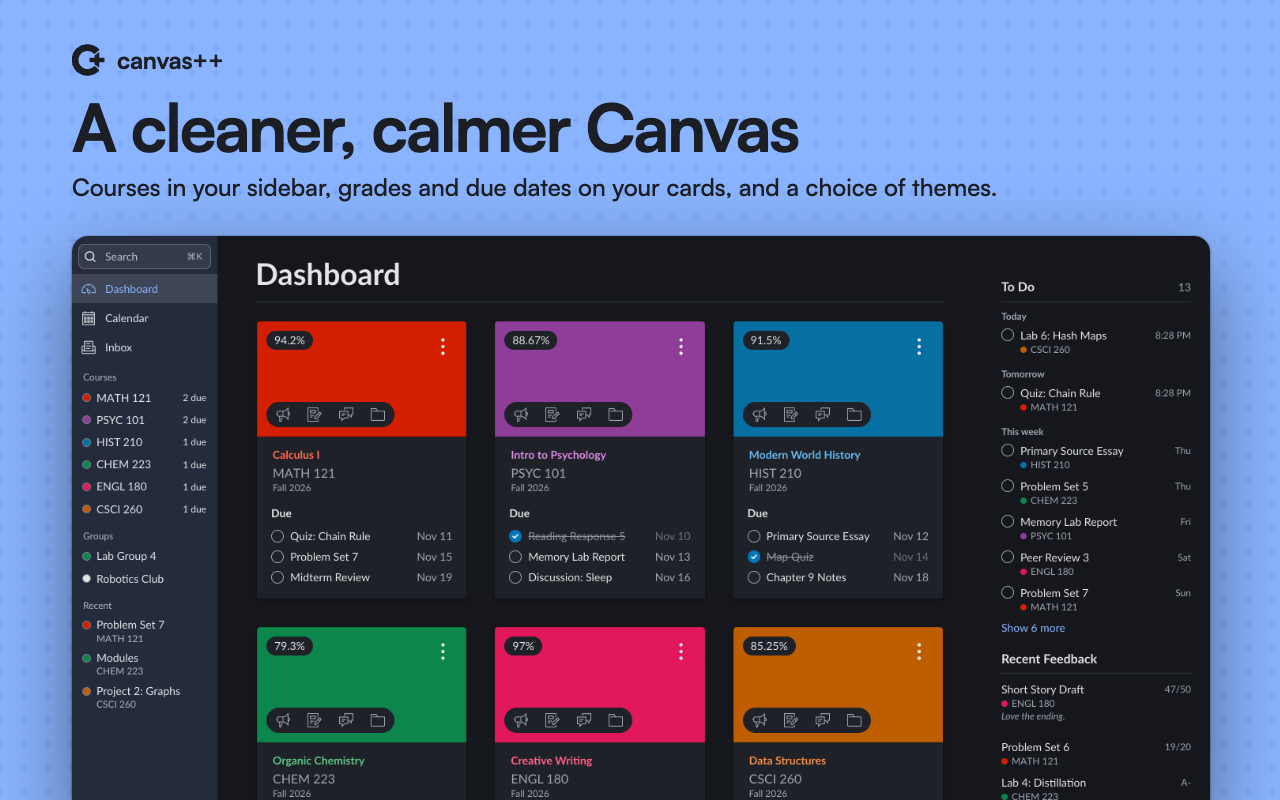
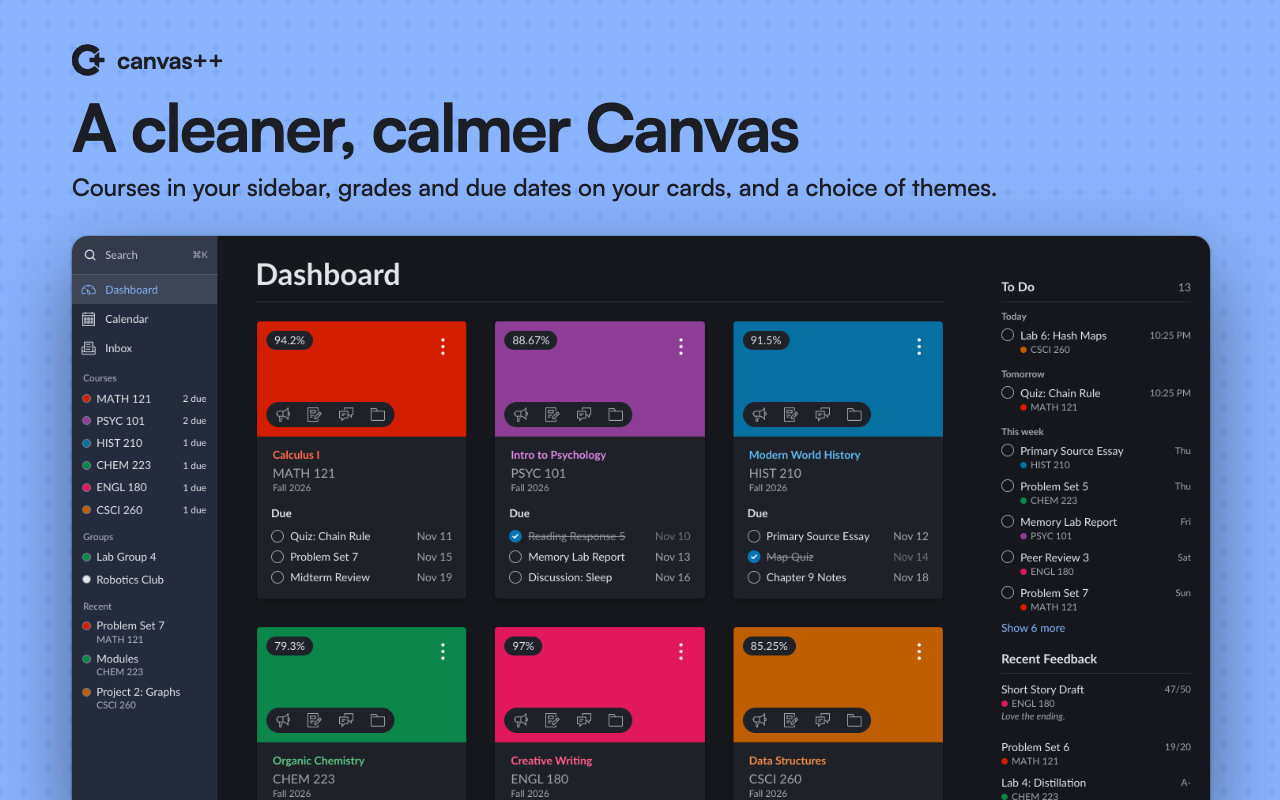
Run the sidebar's search field across its whole width
The field was a rounded box inset in the sidebar. It's now a band across
the top, as tall as the space it had, with a line under it, so it reads
as part of the sidebar rather than a control floating in it.

Changed region(s): [[0.0625, 0.6875, 0.125, 0.875], [0.0625, 0.4688, 0.125, 0.6562], [0.0625, 0.3125, 0.1562, 0.4375]]

diff --git a/src/features/nav/nav.css b/src/features/nav/nav.css
@@ -37,11 +37,11 @@
       }
     }
 
-    /* A field to type in, as it looks, in the nav's colors. */
+    /* A band across the top of the sidebar to type in, as it looks, in the
+       nav's colors, with a line under it. */
     #menu > .cpp-search-entry {
       display: block;
       order: 0;
-      padding: 10px 8px 6px;
     }
 
     .cpp-search-button {
@@ -52,14 +52,15 @@
       width: 100%;
       margin: 0;
       /* its icon in line with the buttons' below */
-      padding: 6px 10px 6px 3px;
-      border: 1px solid
+      padding: 15px 12px;
+      border: 0;
+      border-bottom: 1px solid
         color-mix(
           in srgb,
-          var(--ic-brand-global-nav-menu-item__text-color) 30%,
+          var(--ic-brand-global-nav-menu-item__text-color) 20%,
           transparent
         );
-      border-radius: 8px;
+      border-radius: 0;
       background-color: color-mix(
         in srgb,
         var(--ic-brand-global-nav-menu-item__text-color) 8%,
@@ -82,7 +83,7 @@
 
       &:focus-visible {
         outline: 2px solid var(--ic-brand-global-nav-menu-item__text-color);
-        outline-offset: 1px;
+        outline-offset: -2px;
       }
     }
 
@@ -563,7 +564,7 @@
       /* just its icon */
       .cpp-search-button {
         justify-content: center;
-        padding: 6px 0;
+        padding-inline: 0;
       }
 
       .cpp-search-label,

diff --git a/PLAN.md b/PLAN.md
@@ -132,7 +132,7 @@ Off by default (popup switch in Sidebars & search, labeled with the platform's s
 - **Recent** (`features/search/recent.ts`, unit-tested): before anything is typed, the last five pages opened that the box lists come first, under "Recent", with the courses and work due under "Courses and work due" (the titles only show when there's something recent). Every Canvas page is noted as it loads, by its path (and the module item it was opened as, from `module_item_id`, since Canvas sends `/courses/:id/modules/items/:id` on to the item's own page), the last 50 in the page's `localStorage` per user (`canvas++:search-visits`, `core/saved.ts`). They're matched to the listed entries by href when the box opens, so pages it doesn't list (a submission, say) are passed over, and the page that's open is left out. A page found by its path wins over its module item, so an assignment opened from a module is listed as the assignment. They're kept apart from the left sidebar's Recent, which only notes pages inside a course or group and only while it's on. Saved with the version like the rest, so an update starts the list over; turning the search off removes it.
 - **Matching** (`features/search/match.ts`, unit-tested): every word typed must start a word of the entry, or else appear in it; a word of the title scores above a word of its course, which scores above a part of a word, so "chem gr" finds CHEM 105's Grades and "chem" lists the course before its pages. Ties keep the order above. Case and accents are ignored. What a post, an assignment's description or a module page says is searched too, but a word found only there has to start one of its words (so "lab" doesn't find "available"), and whatever needs the text to match goes after everything else, so common words like "exam" don't push courses and work down.
 - **Requests:** none while something is saved for the user until the box opens. With nothing saved (the first page after the switch is turned on, or after someone else's), they're sent once the page has loaded, signed in, so the box opens full the first time. They're one `GET /api/v1/courses?enrollment_state=active&include[]=tabs&include[]=concluded` (the tabs include is undocumented in the allowed list but in Canvas's `course_json`, with the same per-user rules as the tabs API), then two GraphQL requests at once for the current courses (`features/search/course-items.ts`: a `course(id:)` alias per course, the ids as variables). One asks for the assignments and module items: `assignmentsConnection` with `gradingPeriodId: null` so a course with grading periods lists them all, at most 100 a course, each with its `description`; `modulesConnection`, at most 100 modules a course, each with all its `moduleItems`, which Canvas gives in name order, so they're sorted by `position`, a page's with its `_id` and `updatedAt`. The other asks for the posts, `discussionsConnection` twice, filtered by `isAnnouncement`: announcements come newest first, so `first: 50`, and discussions oldest first, so `last: 50`, each with its `message`. They're apart because the posts take longest and a Canvas too old to filter announcements fails only their request. GraphQL has no page bodies, and students usually can't list a course's pages (the pages list was a 404 in all six of the author's courses, whose Pages tabs are hidden), so once the items are in, each module page is asked for on its own (`GET /api/v1/courses/:id/pages/:id`, six at a time, `features/search/texts.ts`), while the posts may still be coming. Each page's text is kept per user with its `updatedAt` (`canvas++:search-pages`), so later refreshes ask only for pages edited since; a locked page's body is a lock explanation, so it's left out. Every text (posts, descriptions, pages) is reduced to its words in a parsed document of its own and cut at 6,000 characters. Announcements were sized from the author's recorded pages: 7 and 30 in two courses ten weeks into the term, typically about 320 characters of text each, the longest 1,670, so 50 is about a term even for a course that posts three a week, and five such courses add under 100 KB to what's saved. On the author's six courses the posts' request was 316 KB together with the items, so it was split: the items took about 0.8 s and the posts about 1.9 s, at once; the 32 module pages (out of 178 files, 59 assignments and 29 links in the modules) came in about 0.7 s, typically 2,500 characters each and 76 KB in all, and the assignment descriptions were mostly empty, though one course had 39 KB of them. Files' text isn't searched: Canvas doesn't give it, and reading PDFs and slides in the page would take megabytes a course and a large library. On the author's six courses (about 300 module items) it was 61 KB uncompressed and about 1 s, against 13 KB and 0.5 s for the assignments alone, plus the groups (`core/groups.ts`), the colors and the planner, each asked for once a page and shared with the other features. The setting keeps a copy in the page's localStorage (`canvas++:quick-search`), so the shortcut works from the first moment of a page load. Past semesters' assignments and module items are left out: they'd crowd every search with old Homework 1s and make the request heavy. The result is kept in the page's localStorage per user (`core/saved.ts`, shared with the sidebar) for 10 minutes, so the box opens full on the next page and is refreshed behind it. It's kept with the extension's version too: what an older version saved counts as nothing, so after an update the first Canvas page asks for it again in the background, and what's new (like module items) is there at once rather than up to 10 minutes later. Reloading an unpacked build doesn't change the version, so while developing, turn the search off and on to start over.
-- **In the sidebar** (`features/search/nav-button.ts`): while the search is on, a button that looks like a search field (a magnifier, "Search", the shortcut) is first in Canvas's nav list and opens the box. The search adds it itself, as soon as the list is in the page (`core/nav-menu.ts`, shared with the sidebar), so it's there on the first paint, and `nav.css` shows it only while the sidebar is on; collapsed, it's just the magnifier. The magnifier is a mask on `::before` in the text color, since a theme's recolor pass darkens a light line in an SVG as one drawn for a white page.
+- **In the sidebar** (`features/search/nav-button.ts`): while the search is on, a button that looks like a search field (a magnifier, "Search", the shortcut), a band across the top of the sidebar with a line under it, is first in Canvas's nav list and opens the box. The search adds it itself, as soon as the list is in the page (`core/nav-menu.ts`, shared with the sidebar), so it's there on the first paint, and `nav.css` shows it only while the sidebar is on; collapsed, it's just the magnifier. The magnifier is a mask on `::before` in the text color, since a theme's recolor pass darkens a light line in an SVG as one drawn for a white page.
 - **The box** (`features/search/box.ts`) is in an open shadow root, so Canvas's input styles can't reach it; the theme's `--cpp-*` tokens inherit into it, with Canvas's colors as the fallback. It's a combobox with a listbox (`aria-activedescendant`), the focus stays in its field and goes back where it was on close, and keys typed in it don't reach Canvas's own key handlers, which would otherwise see them as coming from a `<div>`. Results are links, so a middle click opens a new tab; ⌘/Ctrl+Enter does too.
 
 ### Time until due
